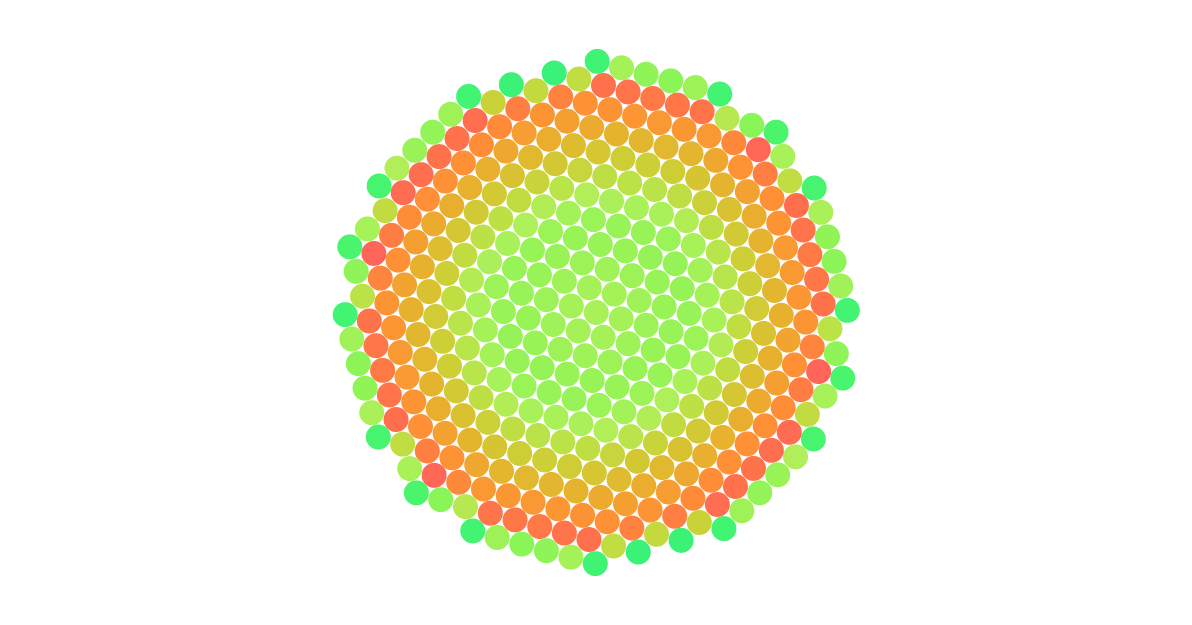
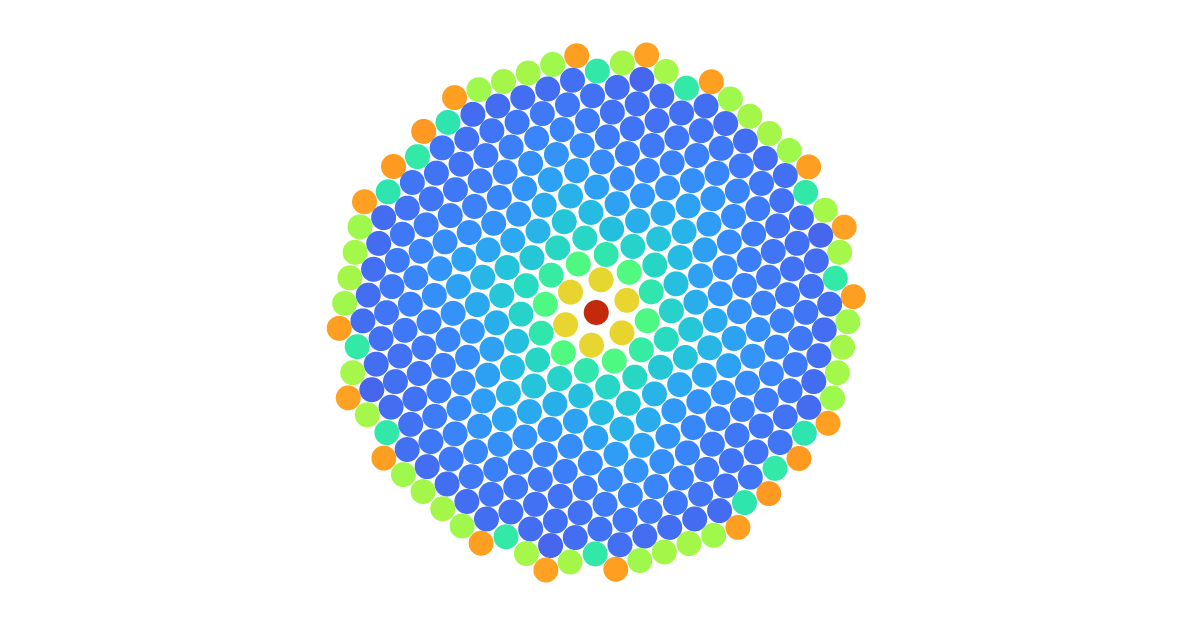
added lj-force

Changed region(s): [[0.2483, 0.0608, 0.745, 0.9424]]

diff --git a/src/lennardJonesPotential.js b/src/lennardJonesPotential.js
@@ -1,0 +1,140 @@
+import {quadtree} from "d3-quadtree";
+import constant from "./constant.js";
+import jiggle from "./jiggle.js";
+import {x, y} from "./simulation.js";
+
+export default function() {
+  var nodes,
+      node,
+      random,
+      alpha,
+      strength = constant(1), // strength now serves as a counter
+      strengths,
+      distanceMin2 = 0.75,
+      distanceMax2 = Infinity,
+      theta2 = 0.0625, // lennard-jones type interactions mostly short-range
+      N=12, M=6; // lennard-jones exponents
+
+  function force(_) {
+    var i, n = nodes.length, tree = quadtree(nodes, x, y).visitAfter(accumulate);
+    for (alpha = _, i = 0; i < n; ++i) {
+      node = nodes[i];
+      node.energy = -1; //self-energy
+      node.force_x = 0, node.force_y =0;
+      tree.visit(apply);
+    }
+  }
+
+  function initialize() {
+    if (!nodes) return;
+    var i, n = nodes.length, node;
+    strengths = new Array(n);
+    for (i = 0; i < n; ++i) node = nodes[i], strengths[node.index] = +strength(node, i, nodes);
+    if (M==N) N += 1; //avoid dividing by zero
+  }
+
+  function accumulate(quad) {
+    var strength = 0, q, c, weight = 0, x, y, i;
+
+    // For internal nodes, accumulate forces from child quadrants.
+    if (quad.length) {
+      for (x = y = i = 0; i < 4; ++i) {
+        if ((q = quad[i]) && (c = Math.abs(q.value))) {
+          strength += q.value, weight += c, x += c * q.x, y += c * q.y;
+        }
+      }
+      quad.x = x / weight;
+      quad.y = y / weight;
+    }
+
+    // For leaf nodes, accumulate forces from coincident quadrants.
+    else {
+      q = quad;
+      q.x = q.data.x;
+      q.y = q.data.y;
+      do strength += strengths[q.data.index];
+      while (q = q.next);
+    }
+
+    quad.value = strength;
+  }
+
+  function apply(quad, x1, _, x2) {
+    if (!quad.value) return true;
+
+    var x = quad.x - node.x,
+        y = quad.y - node.y,
+        w = x2 - x1,
+        l = x * x + y * y,
+        force_prefactor;
+
+    // Apply the Barnes-Hut approximation if possible.
+    // Limit forces for very close nodes; randomize direction if coincident.
+    if (w * w / theta2 < l) {
+      if (l < distanceMax2) {
+        if (x === 0) x = jiggle(random), l += x * x;
+        if (y === 0) y = jiggle(random), l += y * y;
+        if (l < distanceMin2) l = Math.sqrt(distanceMin2 * l);
+
+        force_prefactor = M*N/(M-N)*(1-Math.pow(l,(N-M)/2))/Math.pow(l,(N+2)/2);
+
+        node.energy += (N*Math.pow(l,-M/2)-M*Math.pow(l,-N/2))/(M-N)*quad.value;
+        node.force_x += force_prefactor*x*quad.value*alpha;
+        node.force_y += force_prefactor*y*quad.value*alpha;
+
+      }
+      return true;
+    }
+
+    // Otherwise, process points directly.
+    else if (quad.length || l >= distanceMax2) return;
+
+    // Limit forces for very close nodes; randomize direction if coincident.
+    if (quad.data !== node || quad.next) {
+      if (x === 0) x = jiggle(random), l += x * x;
+      if (y === 0) y = jiggle(random), l += y * y;
+      if (l < distanceMin2) l = Math.sqrt(distanceMin2 * l);
+    }
+
+    force_prefactor = M*N/(M-N)*(1-Math.pow(l,(N-M)/2))/Math.pow(l,(N+2)/2);
+
+    do if (quad.data !== node) {
+      w = strengths[quad.data.index];
+      node.energy += (N*Math.pow(l,-M/2)-M*Math.pow(l,-N/2))/(M-N)*w;
+      node.force_x += force_prefactor*x*w*alpha;
+      node.force_y += force_prefactor*y*w*alpha;
+    } while (quad = quad.next);
+  }
+
+  force.initialize = function(_nodes, _random) {
+    nodes = _nodes;
+    random = _random;
+    initialize();
+  };
+
+  force.strength = function(_) {
+    return arguments.length ? (strength = typeof _ === "function" ? _ : constant(+_), initialize(), force) : strength;
+  };
+
+  force.distanceMin = function(_) {
+    return arguments.length ? (distanceMin2 = _ * _, force) : Math.sqrt(distanceMin2);
+  };
+
+  force.distanceMax = function(_) {
+    return arguments.length ? (distanceMax2 = _ * _, force) : Math.sqrt(distanceMax2);
+  };
+
+  force.theta = function(_) {
+    return arguments.length ? (theta2 = _ * _, force) : Math.sqrt(theta2);
+  };
+  
+  force.repulsivePower = function(_) {
+    return arguments.length ? (N = _, force) : N;
+  };
+
+  force.attractivePower = function(_) {
+    return arguments.length ? (M = _, force) : M;
+  };
+
+  return force;
+}
